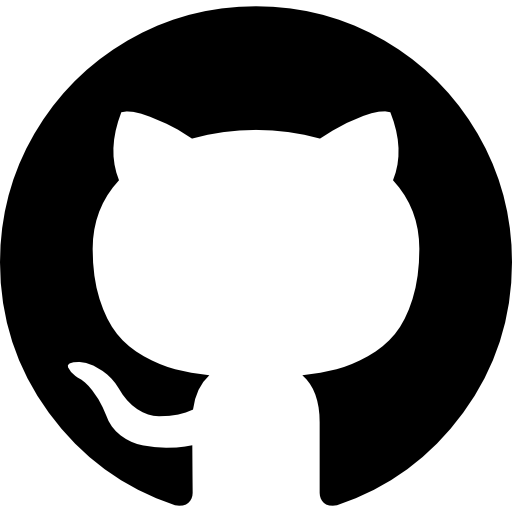
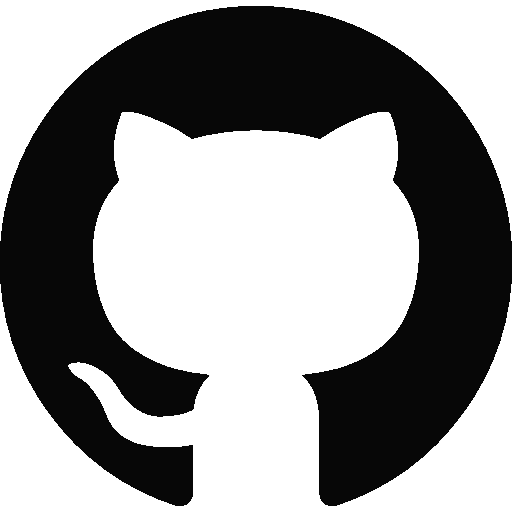
dark mode button

diff --git a/pageStyleSelector.js b/pageStyleSelector.js
@@ -14,9 +14,20 @@ const blueStyleButton = document.querySelector("#blue-style-button");
 let purpleStyle = localStorage.getItem("purpleStyle");
 const purpleStyleButton = document.querySelector("#purple-style-button");
 
-const whiteBgIcon = document.querySelector("#bg-icon-white");
-const blackBgIcon = document.querySelector("#bg-icon-black")
+/*const whiteBgIcon = document.querySelector("#bg-icon-white");
+const blackBgIcon = document.querySelector("#bg-icon-black")*/
 
+const whiteIcons = document.querySelectorAll(".white-icon");
+const blackIcons = document.querySelectorAll(".black-icon");
+
+const blackMobilePhoneIcon = document.querySelector("#mobile-phone");
+const blackDesktopPhoneIcon = document.querySelector("#desktop-phone");
+const whiteMobilePhoneIcon = document.querySelector("#mobile-phone-white");
+const whiteDesktopPhoneIcon = document.querySelector("#desktop-phone-white");
+const bottomBlackMobilePhoneIcon = document.querySelector("#bottom-mobile-phone");
+const bottomBlackDesktopPhoneIcon = document.querySelector("#bottom-desktop-phone");
+const bottomWhiteMobilePhoneIcon = document.querySelector("#bottom-mobile-phone-white");
+const bottomWhiteDesktopPhoneIcon = document.querySelector("#bottom-desktop-phone-white");
 /*
 let Style = localStorage.getItem("Style");
 const StyleButton = document.querySelector("#-style-button");
@@ -41,12 +52,58 @@ const disableAllStyles = () => {
     /*document.body.classList.remove("Style");*/
 };
 
+const enableWhiteIcons = () => 
+    {
+        blackIcons.forEach(icon => {
+            icon.classList.add("disabled");
+        })
+        whiteIcons.forEach(icon => {
+            
+            icon.classList.remove("disabled");
+        })
+        if(/Android|webOS|iPhone|iPad|iPod|BlackBerry|IEMobile|Opera Mini/i.test(navigator.userAgent)) 
+        {
+            blackMobilePhoneIcon.classList.add("disabled");
+            bottomBlackMobilePhoneIcon.classList.add("disabled");
+            whiteMobilePhoneIcon.classList.remove("disabled");
+            bottomWhiteMobilePhoneIcon.classList.remove("disabled");
+        }
+        else
+        {
+            blackDesktopPhoneIcon.classList.add("disabled");
+            bottomBlackDesktopPhoneIcon.classList.add("disabled");
+            whiteDesktopPhoneIcon.classList.remove("disabled");
+            bottomWhiteDesktopPhoneIcon.classList.remove("disabled");
+        }
+    }
+const enableBlackIcons = () =>
+    {
+        whiteIcons.forEach(icon => {
+            icon.classList.add("disabled");
+        })
+        blackIcons.forEach(icon => {
+            icon.classList.remove("disabled");
+        })
+        if(/Android|webOS|iPhone|iPad|iPod|BlackBerry|IEMobile|Opera Mini/i.test(navigator.userAgent)) 
+            {
+                whiteMobilePhoneIcon.classList.add("disabled");
+                bottomWhiteMobilePhoneIcon.classList.add("disabled");
+                blackMobilePhoneIcon.classList.remove("disabled");
+                bottomBlackMobilePhoneIcon.classList.remove("disabled");
+            }
+            else
+            {
+                whiteDesktopPhoneIcon.classList.add("disabled");
+                bottomWhiteDesktopPhoneIcon.classList.add("disabled");
+                blackDesktopPhoneIcon.classList.remove("disabled");
+                bottomBlackDesktopPhoneIcon.classList.remove("disabled");
+            }
+    }
+
 whiteStyleButton.addEventListener("click", () => 
 {
     disableAllStyles();
-    blackBgIcon.classList.remove("disabled");
-    whiteBgIcon.classList.add("disabled")
-    
+    enableBlackIcons();
 });
 
 darkStyleButton.addEventListener("click", () => 
@@ -56,8 +113,7 @@ darkStyleButton.addEventListener("click", () =>
     {
     disableAllStyles();
     document.body.classList.add("darkStyle");
-    whiteBgIcon.classList.remove("disabled")
-    blackBgIcon.classList.add("disabled");
+    enableWhiteIcons();
     localStorage.setItem("darkStyle", "enabled");
     }
     else 
@@ -73,8 +129,7 @@ redStyleButton.addEventListener("click", () =>
     {
     disableAllStyles();
     document.body.classList.add("redStyle");
-    blackBgIcon.classList.remove("disabled");
-    whiteBgIcon.classList.add("disabled")
+    enableBlackIcons();
     localStorage.setItem("redStyle", "enabled");
     }
     else 
@@ -90,8 +145,7 @@ orangeStyleButton.addEventListener("click", () =>
     {
     disableAllStyles();
     document.body.classList.add("orangeStyle");
-    blackBgIcon.classList.remove("disabled");
-    whiteBgIcon.classList.add("disabled")
+    enableBlackIcons();
     localStorage.setItem("orangeStyle", "enabled");
     }
     else 
@@ -107,8 +161,7 @@ yellowStyleButton.addEventListener("click", () =>
     {
     disableAllStyles();
     document.body.classList.add("yellowStyle");
-    blackBgIcon.classList.remove("disabled");
-    whiteBgIcon.classList.add("disabled")
+    enableBlackIcons();
     localStorage.setItem("yellowStyle", "enabled");
     }
     else 
@@ -123,8 +176,7 @@ greenStyleButton.addEventListener("click", () =>
     {
     disableAllStyles();
     document.body.classList.add("greenStyle");
-    blackBgIcon.classList.remove("disabled");
-    whiteBgIcon.classList.add("disabled")
+    enableBlackIcons();
     localStorage.setItem("greenStyle", "enabled");
     }
     else 
@@ -140,8 +192,7 @@ blueStyleButton.addEventListener("click", () =>
     {
     disableAllStyles();
     document.body.classList.add("blueStyle");
-    blackBgIcon.classList.remove("disabled");
-    whiteBgIcon.classList.add("disabled")
+    enableBlackIcons();
     localStorage.setItem("blueStyle", "enabled");
     }
     else 
@@ -157,8 +208,7 @@ purpleStyleButton.addEventListener("click", () =>
     {
     disableAllStyles();
     document.body.classList.add("purpleStyle");
-    blackBgIcon.classList.remove("disabled");
-    whiteBgIcon.classList.add("disabled")
+    enableBlackIcons();
     localStorage.setItem("purpleStyle", "enabled");
     }
     else 

diff --git a/index.html b/index.html
@@ -16,10 +16,10 @@
         </span> 
     </div>
     <div class="bg-menu">
-        <div class = "bg-icon" id="bg-icon-black">
+        <div class = "bg-icon black-icon" id="bg-icon-black">
         <img src="assets/backgroundIcon.png"  onclick="toggleBgMenu()" alt="Change Background" id ="page-style-toggle" aria-label="Switch Style"/>
         </div>
-        <div class ="bg-icon disabled" id ="bg-icon-white">
+        <div class ="bg-icon white-icon disabled" id ="bg-icon-white">
         <img src="assets/whiteBackgroundIcon.png"  onclick="toggleBgMenu()" alt="Change Background" id ="page-style-toggle" aria-label="Switch Style"/>
         </div>
         <div class="bg-buttons-menu">
@@ -79,17 +79,29 @@
                 </button>
             </div>
             <div id="socials-container">
-                        <a href="mailto:aidancruz12@gmail.com">
+                        <a href="mailto:aidancruz12@gmail.com" class="black-icon">
                             <img src="./assets/email.png"
                             alt="My Email"
                             class="icon"/>
                         </a>
+                        <a href="mailto:aidancruz12@gmail.com" class="white-icon disabled">
+                            <img src="./assets/white emai icon.png"
+                            alt="My Email"
+                            class="icon"/>
+                        </a>
+                        
                         <a class="disabled" href="tel:+19132263901" id="mobile-phone">
                         <img src="./assets/phone.png"
                         alt="My Phone #"
                         class="icon"
                         />
                         </a>
+                        <a class="disabled" href="tel:+19132263901" id="mobile-phone-white">
+                            <img src="./assets/white phone icon.png"
+                            alt="My Phone #"
+                            class="icon"
+                            />
+                            </a>
                         <span class="disabled" id="desktop-phone">
                         <img class="icon"
                         onclick="copyNumber()"
@@ -97,18 +109,40 @@
                         src="./assets/phone.png"
                         />
                         </span>
-                <a href="https://www.linkedin.com/in/aidan-cruz-7b4678281/" target="_blank">
+                        <span class="disabled" id="desktop-phone-white">
+                            <img class="icon"
+                            onclick="copyNumber()"
+                            alt="My Phone #"
+                            src="./assets/white phone icon.png"
+                            />
+                            </span>
+                <a href="https://www.linkedin.com/in/aidan-cruz-7b4678281/" target="_blank" class="black-icon">
                     <img src="./assets/linkedin.png" 
                     alt="My LinkedIn Profile" 
                     class="icon"/>
                 </a>
-                <a href="https://github.com/aidanc71" target="_blank">
+                <a href="https://www.linkedin.com/in/aidan-cruz-7b4678281/" target="_blank" class="white-icon disabled">
+                    <img src="./assets/linkedin white icon.png" 
+                    alt="My LinkedIn Profile" 
+                    class="icon"/>
+                </a>
+                <a href="https://github.com/aidanc71" target="_blank" class="black-icon">
                     <img src="./assets/github.png" 
                     alt="My Github Profile" 
                     class="icon"/>
                 </a>
-                <a href="https://profile.indeed.com/?hl=en_US&co=US&from=gnav-homepage" target="_blank">
+                <a href="https://github.com/aidanc71" target="_blank" class="white-icon disabled">
+                    <img src="./assets/github white icon.png" 
+                    alt="My Github Profile" 
+                    class="icon"/>
+                </a>
+                <a href="https://profile.indeed.com/?hl=en_US&co=US&from=gnav-homepage" target="_blank" class="black-icon">
                     <img src="./assets/indeed.png"
+                    alt ="Indeed Icon"
+                    class="icon"/>
+                </a>
+                <a href="https://profile.indeed.com/?hl=en_US&co=US&from=gnav-homepage" target="_blank" class="white-icon disabled">
+                    <img src="./assets/indeed white icon.png"
                     alt ="Indeed Icon"
                     class="icon"/>
                 </a>

diff --git a/style.css b/style.css
@@ -41,7 +41,9 @@ p {
 
     --primary-text-color: black;
     --secondary-text-color: aqua;
+    --details-container-text-color: var(--primary-color);
 
+    --details-conatiner-bg-color: var(--primary-color);
     --bg-menu-color: black;
 
     --alert-top-offset: 625px;
@@ -52,8 +54,10 @@ p {
 
     --primary-text-color: white;
     --secondary-text-color: aqua;
+    --details-container-text-color: black;
 
     --bg-menu-color: white;
+    --details-conatiner-bg-color: white;
 
     --alert-top-offset: 625px;
 }
@@ -620,11 +624,15 @@ section {
 .details-container {
     padding: 1.5rem;
     flex: 1;
-    background: var(--primary-color);
+    background-color: var(--details-conatiner-bg-color);;
     border-radius: 2rem;
     border: rgb(53, 53, 53) 0.1rem solid;
     border-color: rgb(163, 163, 163);
     text-align: center;
+}
+
+.details-container p {
+    color: var(--details-container-text-color);
 }
 
 .section-container {
@@ -715,12 +723,19 @@ article .icon {
 
 .contact-info-upper-container {
     display: flex;
+    background-color: var(--details-conatiner-bg-color);
     justify-content: center;
     border-radius: 2rem;
     border: rgb(53, 53, 53) 0.1rem solid;
     border-color: rgb(163, 163, 163);
     margin: 2rem auto;
     padding: 0.5rem;
+}
+.contact-info-upper-container p {
+    color: var(--details-container-text-color);
+}
+.contact-info-upper-container a {
+    color: var(--details-container-text-color);
 }
 
 .contact-info-container {

diff --git a/script.js b/script.js
@@ -20,8 +20,12 @@ function destroyIncorrectPhone()
 {
     const bottomMobilePhoneIcon = document.getElementById("bottom-mobile-phone")
     const bottomDesktopPhoneIcon = document.getElementById("bottom-desktop-phone")
+    const bottomMobilePhoneIconWhite = document.getElementById("bottom-mobile-phone-white")
+    const bottomDesktopPhoneIconWhite = document.getElementById("bottom-desktop-phone-white")
     const mobilePhoneIcon = document.getElementById("mobile-phone")
     const desktopPhoneIcon = document.getElementById("desktop-phone")
+    const mobilePhoneIconWhite = document.getElementById("mobile-phone-white")
+    const desktopPhoneIconWhite = document.getElementById("desktop-phone-white")
     if(/Android|webOS|iPhone|iPad|iPod|BlackBerry|IEMobile|Opera Mini/i.test(navigator.userAgent)) 
     {
         mobilePhoneIcon.classList.remove("disabled");
